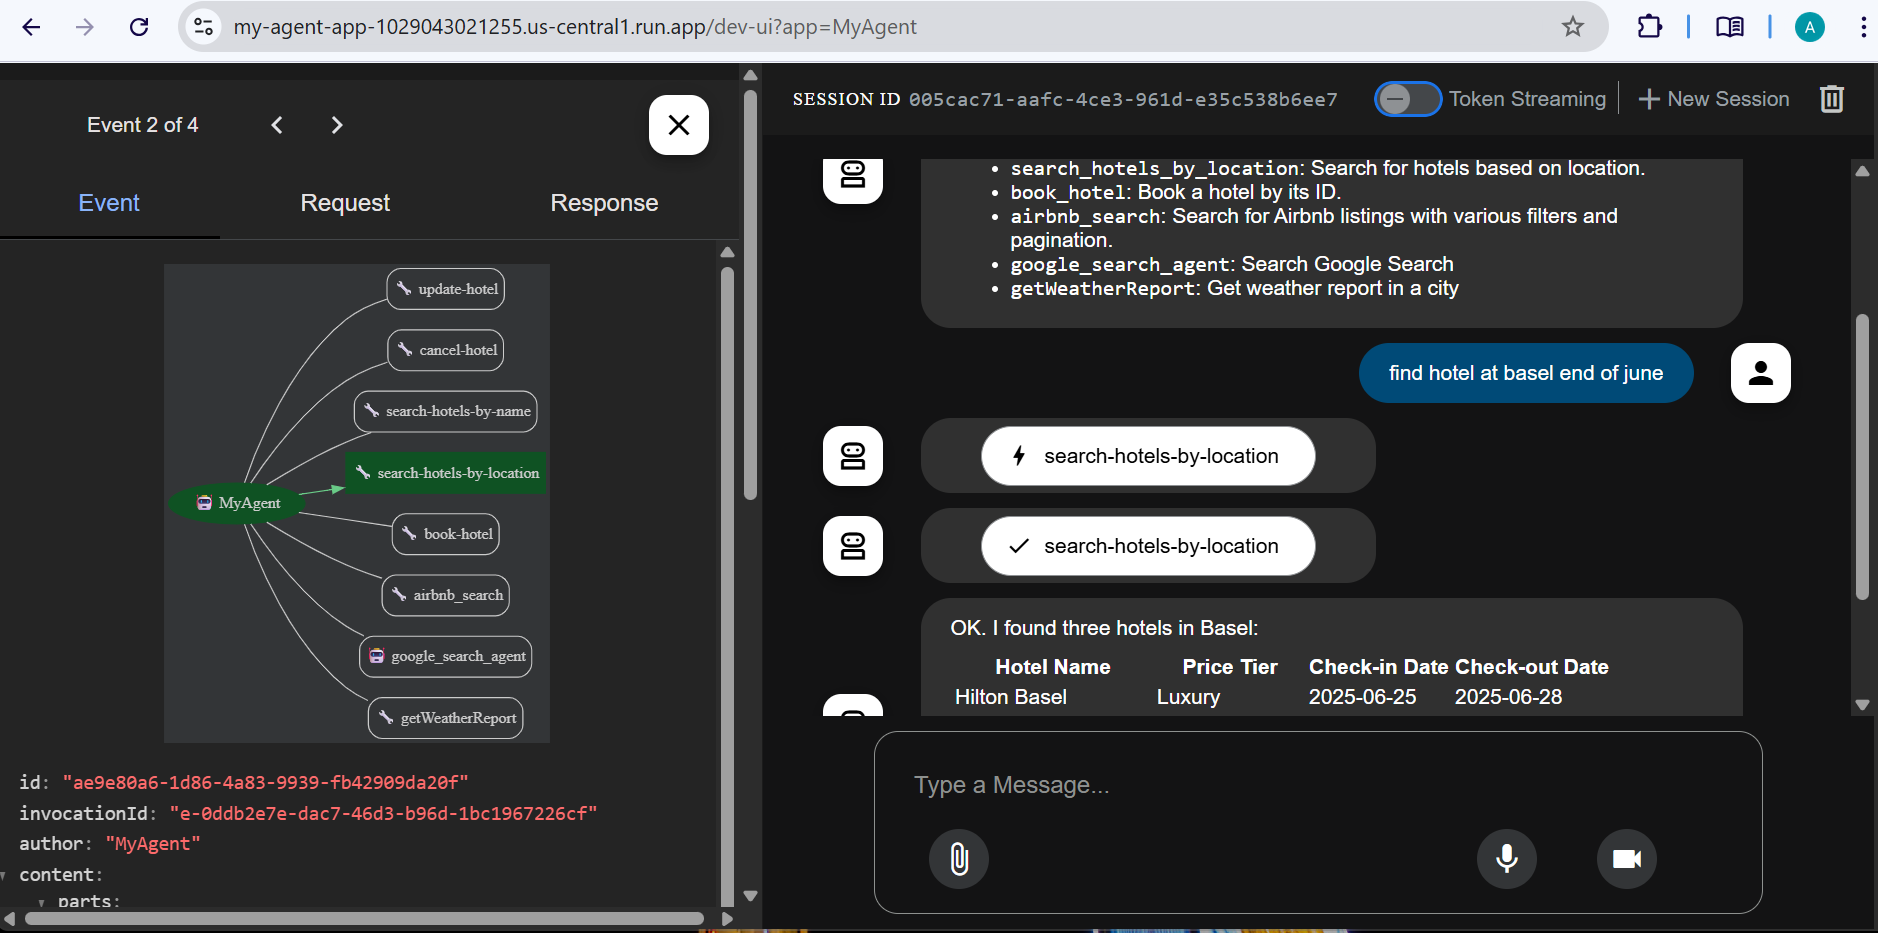
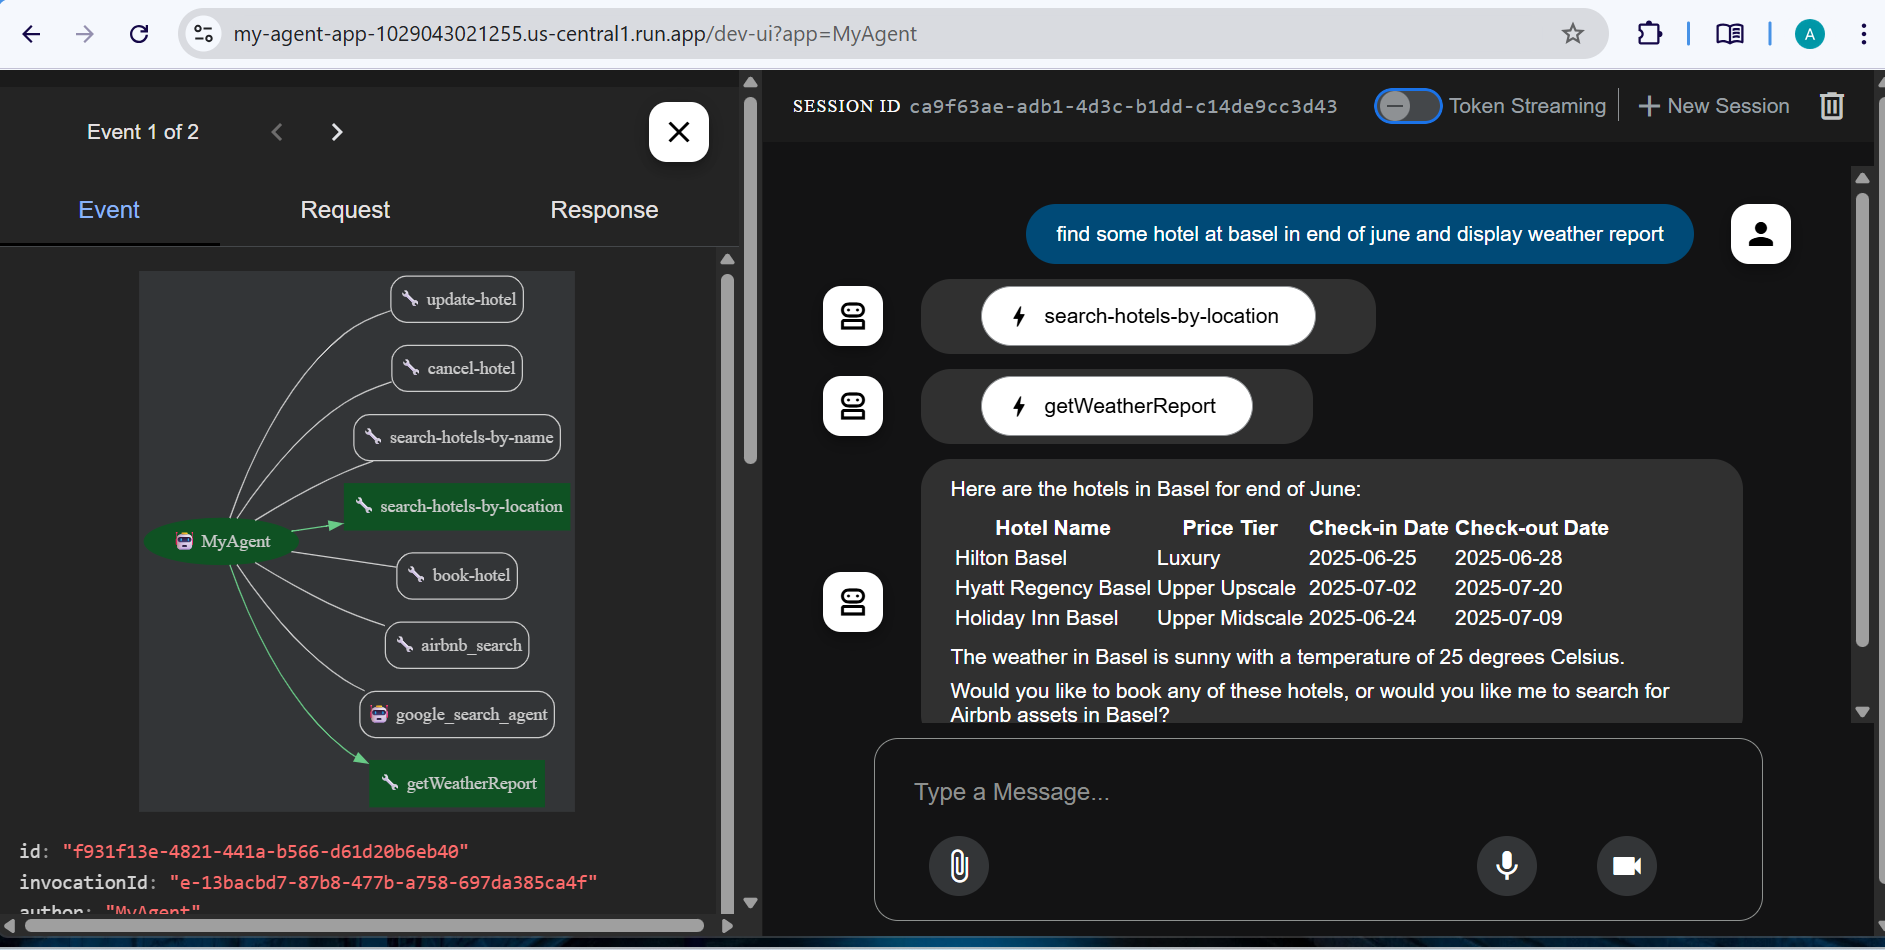
update Readme

diff --git a/README.md b/README.md
@@ -57,7 +57,7 @@ MyAgent Docker Modules Containers >
 On the My Agent ADK Web UI application, you can use the following queries to test various use cases:
 
 1. mcp-toolbox(hotel) + weather tool user query >
-please find up to 3 hotels in basel and inform about weather report
+find some hotel at basel in end of june and display weather report
 
 2. mcp-server-airbnb user query >
 describe up to 3 AirBnB accomodation at Basel
